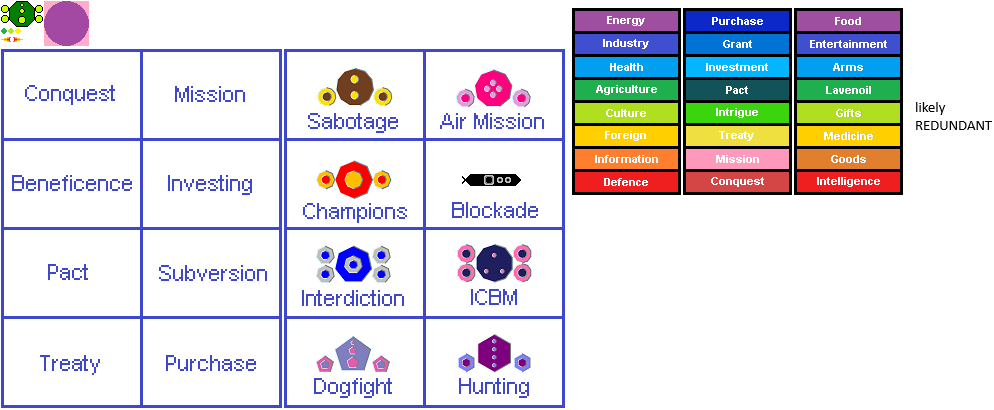
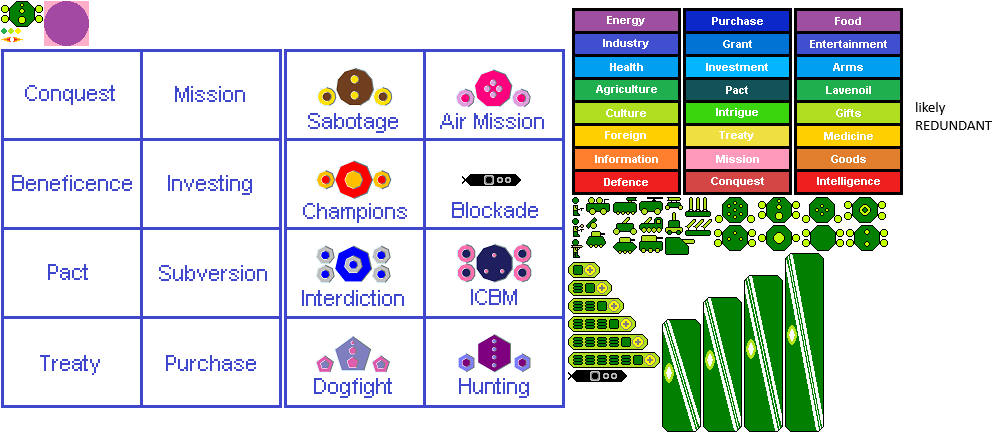
Add files via upload

diff --git a/dominion/components.js b/dominion/components.js
@@ -29,8 +29,8 @@ var ArmsDistribution;		//MOBILE
 //---------- CONTROLS -------------------
 
 //Buttons
-var NewGameButton, TutorialButton, DemoButton, MiniGamesButton;		//standard
-var IconCornerImages, RaisedCornerImages, CheckBoxImages;				//images
+var NewGameButton, TutorialButton, DemoButton, MiniGamesButton;						//standard
+var IconCornerImages, RaisedCornerImages, CheckBoxImages, RadioOptionImage;		//images
 
 var AllianceCancelButton, AllianceButton, TurnButton;						//REDUNDANT?
 
@@ -71,9 +71,19 @@ var FortnightDigitImages, JetLetterImages, TinyDigitImages;
 //--------------------------------------
 //---------- SPRITES -------------------
 
+//Army
+var LeftTrooperSprite, RightTrooperSprite, GrenadeSprite, LeftBazookaSprite, RightBazookaSprite,
+	 LeftGunArmSprite, RightGunArmSprite, LeftGrenadierArmSprite, RightGrenadierArmSprite, LeftBazookerArmSprite, RightBazookerArmSprite;	//troopers
+var LeftHowitzerSprite, RightHowitzerSprite, JeepSprite, APCSprite, SmallBarrelSprite, LeftJeepGunSprite, RightJeepGunSprite;		//light units - UNLOGGED
+var AVSprite, ArtillerySprite, IFVSprite, LeftAVCannonSprite, RightAVCannonSprite, LeftBarrelSprite, RightBarrelSprite;				//medium units
+var MobileGunSprite, LeftTruckSprite, RightTruckSprite, TankSprite, TankHutchSprite, LargeBarrelSprite;	//heavy units - UNLOGGED
+var ATWSprite, LeftATMSprite, RightATMSprite, AAGunSprite, LeftLCGSprite, RightLCGSprite, LeftLCGBarrelSprite, RightLCGBarrelSprite; //defence units - U
+var MissilePadSprite, SAMSprite, LeftSSMSprite, RightSSMSprite;		//missile - UNLOGGED
+var LargeWheelSprite, MediumWheelSprite, SmallWheelSprite, TreadSprite;		//wheels - UNLOGGED
+
 //Navy
 var GunBoatSprite, MissileBoatSprite, FrigateSprite, DestroyerSprite, CruiserSprite, BattleshipSprite,
-	 EscortCarrierSprite, LightCarrierSprite, FleetCarrierSprite, SuperCarrierSprite;
+	 EscortCarrierSprite, LightCarrierSprite, FleetCarrierSprite, SuperCarrierSprite, CarrierTowerSprite;
 var ShipBowSprite, ShipOutlineSprite, ShipHullSprite;
 
 //Air Force
@@ -131,6 +141,7 @@ var AssetsView, ForcesView, InvestmentView, BondsView;
 var AirMissionView, ChampionsView;									//missions
 var SeaTheatre, BeachheadTheatre;									//theatres
 var SolicitationView, SolicitationInfoView, TurnConsoleView, MultipleChoiceView;
+var GuideView, GuideInfoView, DocumentationConsoleView;
 
 //--------------------------------------------------
 //---------- DOMINION COMPONENTS -------------------
@@ -314,6 +325,7 @@ DominionComponents.prototype = {
 		//Images
 		IconCornerImages = new GenieImage();
 		CheckBoxImages = new GenieImage();
+		RadioOptionImage = new GenieImage();
 
 		//Buttons
 		RaisedCornerImages = new GenieImage();
@@ -343,6 +355,7 @@ DominionComponents.prototype = {
 		//Images
 		IconCornerImages.Set(this.ControlPanel, ImageManager.Pics[IMAGeINDEX.GENIeCONTROLS], ICOnCORNErIMAGEs);
 		CheckBoxImages.Set(this.Screen, ImageManager.Pics[IMAGeINDEX.GENIeCONTROLS], CHECkBOxIMAGE);
+		RadioOptionImage.Set(this.ControlPanel, ImageManager.Pics[IMAGeINDEX.GENIeCONTROLS], RADIoCONTROlIMAGE);
 
 		//Buttons
 		RaisedCornerImages.Set(this.ControlPanel, ImageManager.Pics[IMAGeINDEX.GENIeCONTROLS], RAISEdBUTTOnCORNErIMAGEs);
@@ -430,6 +443,13 @@ DominionComponents.prototype = {
 
 		//UNLOGGED
 
+		this.CreateTrooperSprites();
+		this.CreateLightCombatantSprites();
+		this.CreateMediumCombatantSprites();
+		this.CreateHeavyCombatantSprites();
+		this.CreateDefenceCombatantSprites();
+		this.CreateMissileSprites();
+		this.CreateWheelSprites();
 		this.CreateShipSprites();
 		this.CreateJetSprites();
 		this.CreateInfoJetSprites();
@@ -453,6 +473,13 @@ DominionComponents.prototype = {
 
 		//UNLOGGED
 
+		this.SetTrooperSprites();
+		this.SetLightCombatantSprites();
+		this.SetMediumCombatantSprites();
+		this.SetHeavyCombatantSprites();
+		this.SetDefenceCombatantSprites();
+		this.SetMissileSprites();
+		this.SetWheelSprites();
 		this.SetShipSprites();
 		this.SetJetSprites();
 		this.SetInfoJetSprites();
@@ -552,6 +579,8 @@ DominionComponents.prototype = {
 		SolicitationInfoView = new DominionSolicitationInfoView();
 		TurnConsoleView = new DominionTurnConsoleView();
 		MultipleChoiceView = new DominionChoiceInfoView();
+
+		DocumentationConsoleView = new DominionDocumentationConsoleView();
 	},
 	SetViews() {  //UNLOGGED
 
@@ -560,6 +589,9 @@ DominionComponents.prototype = {
 		this.SetFinancialViews();
 		this.SetTurnViews();
 		this.SetOfficeViews();
+		DocumentationConsoleView.SetLinks(null, this.TextWriter);
+		DocumentationConsoleView.Set(this.Interface.Console, VIEW.DOCUMENTATION);
+		this.SetGuideViews();
 
 //		BoardView.Set(this.Interface.PrimeScape, this.GraphicsTool, this.CalcPad, this.TextWriter, this.ScreenRect);	//TODO: all these arguments needed?
 

diff --git a/dominion/data.js b/dominion/data.js
@@ -14,6 +14,7 @@ var DominionImages = [
 	"MiniGames.png",
 	"../library/GenieImages.png",
 	"../library/GenieControls.png",
+	"bitmaps/Guide.png",
 	"Scratch.png"
 ];
 var IMAGeINDEX = {
@@ -28,7 +29,8 @@ var IMAGeINDEX = {
 	MINiGAMES:		8,
 	GENIeIMAGES:	9,
 	GENIeCONTROLS: 10,
-	SCRATCH:			11
+	GUIDE:			11,
+	SCRATCH:			12
 };
 
 //-------------------------------------
@@ -55,7 +57,7 @@ var DOMINION = { GAME: { DAILY: 0, FREeFORM: 1, MULTiCHOICE: 2, SURVIVAL: 3 }, D
 					  COLOUR: { CITySTATE: "rgb(175,175,255)",
 									FOOD: "rgb(223,239,143)", ENTERTAINMENT: "rgb(209,255,095)", ARMS: "rgb(255,175,175)", LAVENOIL: "rgb(175,143,207)",
 									BONDS: "rgb(255,239,239)", MEDICINE: "rgb(159,255,255)", GOODS: "rgb(191,223,239)", SURVEILLANCE: "rgb(255,223,111)",
-									OFFICE: { WOOD: "rgb(063,015,000)", EDGE: "rgb(031,000,000)", DOOR: { PANEL: GREY.SILVER } },
+									OFFICE: { WOOD: "rgb(063,015,000)", EDGE: "rgb(031,000,000)", DOOR: { PANEL: GREY.SILVER } }, LINK: "rgb(047,079,175)",
 									VIRIDIAN: "rgb(000,127,063)", YELLOW: "rgb(255,239,000)"
 								 },
 					  CHARACTER: { STATE: { QUIET: 0, TALKING: 1 },
@@ -67,7 +69,7 @@ var DOMINION = { GAME: { DAILY: 0, FREeFORM: 1, MULTiCHOICE: 2, SURVIVAL: 3 }, D
 										BITS: { GENDER: 0, HAIR: { S: 3, E: 1 }, FACE: { S: 6, E: 4 }, EYES: { S: 12, E: 7 }, NOSE: { S: 15, E: 13 } }
 												//TODO: more bits needed for different face and hair types
 									 },
-					  TURNS: { SHORT: 17, MEDIUM: 34, LONG: 51 }, FORTNIGHTS: 100
+					  TURNS: { SHORT: 17, MEDIUM: 34, LONG: 51 }, FORTNIGHTS: 100, YEARS: 4
 };
 var SITUATION = { OFFER: 0, PROPOSAL: 1, INVESTMENT: 2, BOND: 3, INTRIGUE: 4, MISSION: 5, BLOCKADE: 6, INVASION: 7, TYPES: 8,					//Standard
 						OIL: 8, CULT: 9, SOVEREIGNITY: 10, INTERVENTION: 11, SPLINTERING: 12, SECESSION: 13, ACCESSION: 14, DISSIDENT: 15 };		//Rare
@@ -77,7 +79,7 @@ var Oils = [ "Indigoil", "Lapisoil", "Cobaloil", "Ceruloil", "Azuroil", "Magenoi
 var NewspaperTitles = [ "Chronicle", "Courant", "Bugle", "Dispatch", "Echo", "Examiner", "Gazette", "Guardian", "Herald", "Independent",
 								"Journal", "Mercury", "Metro", "Phoenix", "Post", "Record", "Standard", "Times", "Tribune", "Voice"
 ];
-var Profanities = [ "sineP", "gin", "noroM", "renoB", "kuf", "cuf", "gaf", "par", "cid", "kid", "tit", "muc", "gav" ];
+var Profanities = [ "sineP", "gin", "noroM", "renoB", "cuf", "kuf", "quf", "gaf", "par", "cid", "kid", "tit", "muc", "gav" ];
 
 //---------------------------------------
 //---------- CONTROLS -------------------

diff --git a/dominion/Mobile.htm b/dominion/Mobile.htm
@@ -60,6 +60,7 @@
 	<script src="..\library\controls\GenieTouchBar.js"></script>
 	<script src="..\library\controls\GenieBarChart.js"></script>
 	<script src="..\library\controls\GeniePieChart.js"></script>
+	<script src="..\library\controls\GenieRadio.js"></script>
 	<script src="..\library\controls\GenieGauge.js"></script>
 	<script src="..\library\controls\LinearGauge.js"></script>
 	<script src="..\library\controls\TimeMeter.js"></script>
@@ -152,6 +153,11 @@
 
 	<!-- help -->
 	<script src="help\intro.js"></script>
+	<script src="views\sub\documentation.js"></script>
+	<script src="views\guide.js"></script>
+	<script src="views\sub\guide.js"></script>
+	<script src="views\guide\overview.js"></script>
+	<script src="views\guide\map.js"></script>
 
 	<script src="utils.js"></script>
 
@@ -161,8 +167,13 @@
 	<script src="controls\map.js"></script>
 	<script src="controls\speed.js"></script>
 
-	<!-- units -->
+	<!-- combatants -->
 	<script src="unit.js"></script>
+	<script src="units\combatant.js"></script>
+	<script src="units\combatants\LART.js"></script>
+	<script src="units\combatants\MART.js"></script>
+
+	<!-- jets -->
 	<script src="units\jet.js"></script>
 	<script src="units\jets\bomber.js"></script>
 	<script src="units\jets\fighter.js"></script>
@@ -260,6 +271,8 @@
 	<script src="views\assets.js"></script>
 	<script src="views\bonds.js"></script>
 	<script src="views\forces.js"></script>
+	<script src="views\forces\sprites.js"></script>
+	<script src="views\forces\draw.js"></script>
 	<script src="views\investment.js"></script>
 
 	<script src="views\global.js"></script>
@@ -276,6 +289,7 @@
 	<!-- intro -->
 	<script src="views\intro.js"></script>
 	<script src="views\intro\data.js"></script>
+	<script src="views\intro\controls.js"></script>
 	<script src="views\intro\update.js"></script>
 
 	<!-- turn -->

diff --git a/dominion/nation.js b/dominion/nation.js
@@ -11,7 +11,7 @@ var DominionNation = function() {
 	var Popularity, Government, Opposition;			//internal
 	var HeadOfState, Adviser;
 	var Cabinet;
-	var Army, AirForce, Navy, Missilery, Fleets;
+	var Army, AirForce, Navy, Missilery;
 	var MicroUnits, MidUnits, MegaUnits, Units;		//for MOBILE game (maybe TEMP)
 
 	var Cities, Provinces, Bases;	//TODO: one or more of these may be REDUNDANT
@@ -95,7 +95,7 @@ DominionNation.prototype = {
 			this.AirForce = new DominionAirForce();
 			this.AirForce.Set(this);
 			if (this.Type==NATION.POWER)
-				this.SetFleet();
+				this.SetFleets();
 		}
 		this.Missilery = new DominionMissilery();
 		this.Missilery.Set(this);
@@ -118,17 +118,24 @@ DominionNation.prototype = {
 
 		//Distribute allocation evenly if Tomcat or an Allied State
 		if (!blgrnc) {
-	 for (i=0;i<MINISTRY.PORTFOLIOS;++i)
+			for (i=0;i<MINISTRY.PORTFOLIOS;++i)
 		 this.Budget[i] = BUDGET.PORTIONS/MINISTRY.PORTFOLIOS;
-	 return;
+			return;
 		}
 
 		portion = 1;
 		iMinistries = new Array(MINISTRY.PORTFOLIOS);
 		for (i=0;i<MINISTRY.PORTFOLIOS;++i) {
-	 this.Budget[BudgetDistribution[blgrnc][i]] = portion;
-	 ++portion;
+			this.Budget[BudgetDistribution[blgrnc][i]] = portion;
+			++portion;
 		}
+	},
+	GetFortnightlyRevenue() {  //UNLOGGED . . . TODO: will become more complex, with variable tax rates and such
+
+		this.Revenue = 0.4 * this.Population * GDP.PErCAPITA;
+		this.Revenue /= (DOMINION.FORTNIGHTS/DOMINION.YEARS);
+
+		return (this.Revenue);
 	},
 	Update() {
 		//TODO: plan for this to be first call in game cycle

diff --git a/dominion/Dominion.htm b/dominion/Dominion.htm
@@ -69,6 +69,7 @@
 	<script src="..\library\controls\GenieBarChart.js"></script>
 	<script src="..\library\controls\GeniePieChart.js"></script>
 	<script src="..\library\controls\GenieGauge.js"></script>
+	<script src="..\library\controls\GenieRadio.js"></script>
 	<script src="..\library\controls\LinearGauge.js"></script>
 	<script src="..\library\controls\TimeMeter.js"></script>
 	<script src="..\library\controls\ImagePanel.js"></script>
@@ -159,6 +160,11 @@
 
 	<!-- help -->
 	<script src="help\intro.js"></script>
+	<script src="views\sub\documentation.js"></script>
+	<script src="views\guide.js"></script>
+	<script src="views\sub\guide.js"></script>
+	<script src="views\guide\overview.js"></script>
+	<script src="views\guide\map.js"></script>
 
 	<script src="utils.js"></script>
 
@@ -168,8 +174,13 @@
 	<script src="controls\map.js"></script>
 	<script src="controls\speed.js"></script>
 
-	<!-- units -->
+	<!-- combatants -->
 	<script src="unit.js"></script>
+	<script src="units\combatant.js"></script>
+	<script src="units\combatants\LART.js"></script>
+	<script src="units\combatants\MART.js"></script>
+
+	<!-- jets -->
 	<script src="units\jet.js"></script>
 	<script src="units\jets\bomber.js"></script>
 	<script src="units\jets\fighter.js"></script>
@@ -283,6 +294,7 @@
 	<!-- intro -->
 	<script src="views\intro.js"></script>
 	<script src="views\intro\data.js"></script>
+	<script src="views\intro\controls.js"></script>
 	<script src="views\intro\update.js"></script>
 
 	<!-- turn -->

diff --git a/dominion/oNations.js b/dominion/oNations.js
@@ -42,6 +42,7 @@ OctagonalNations.prototype.Start = function() {
 	if (Game.CheckMobile()) {
 		GlobalView.Disable();
 		IntroView.Open();
+		IntroView.Update();
 		IntroView.ConsoleView.DeActivateControls();
 		this.Randomizer.SetDailySeed(DOMINION.DATE);
 	} else
